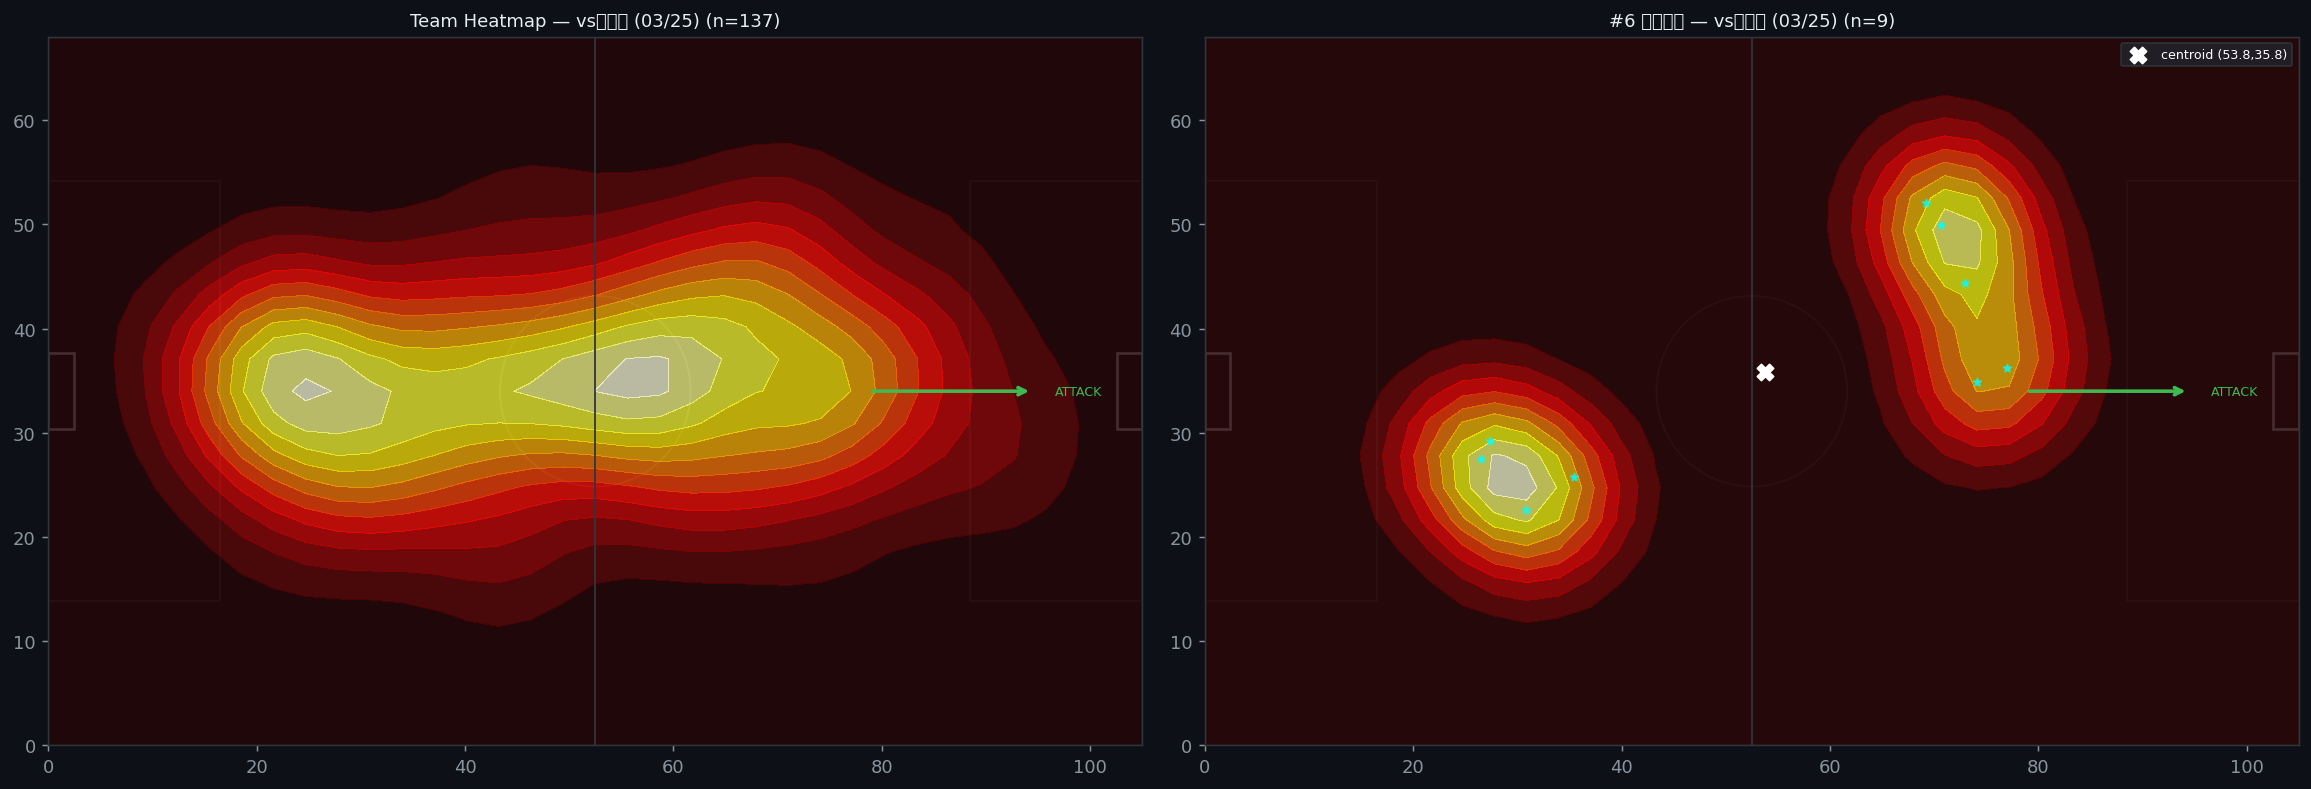
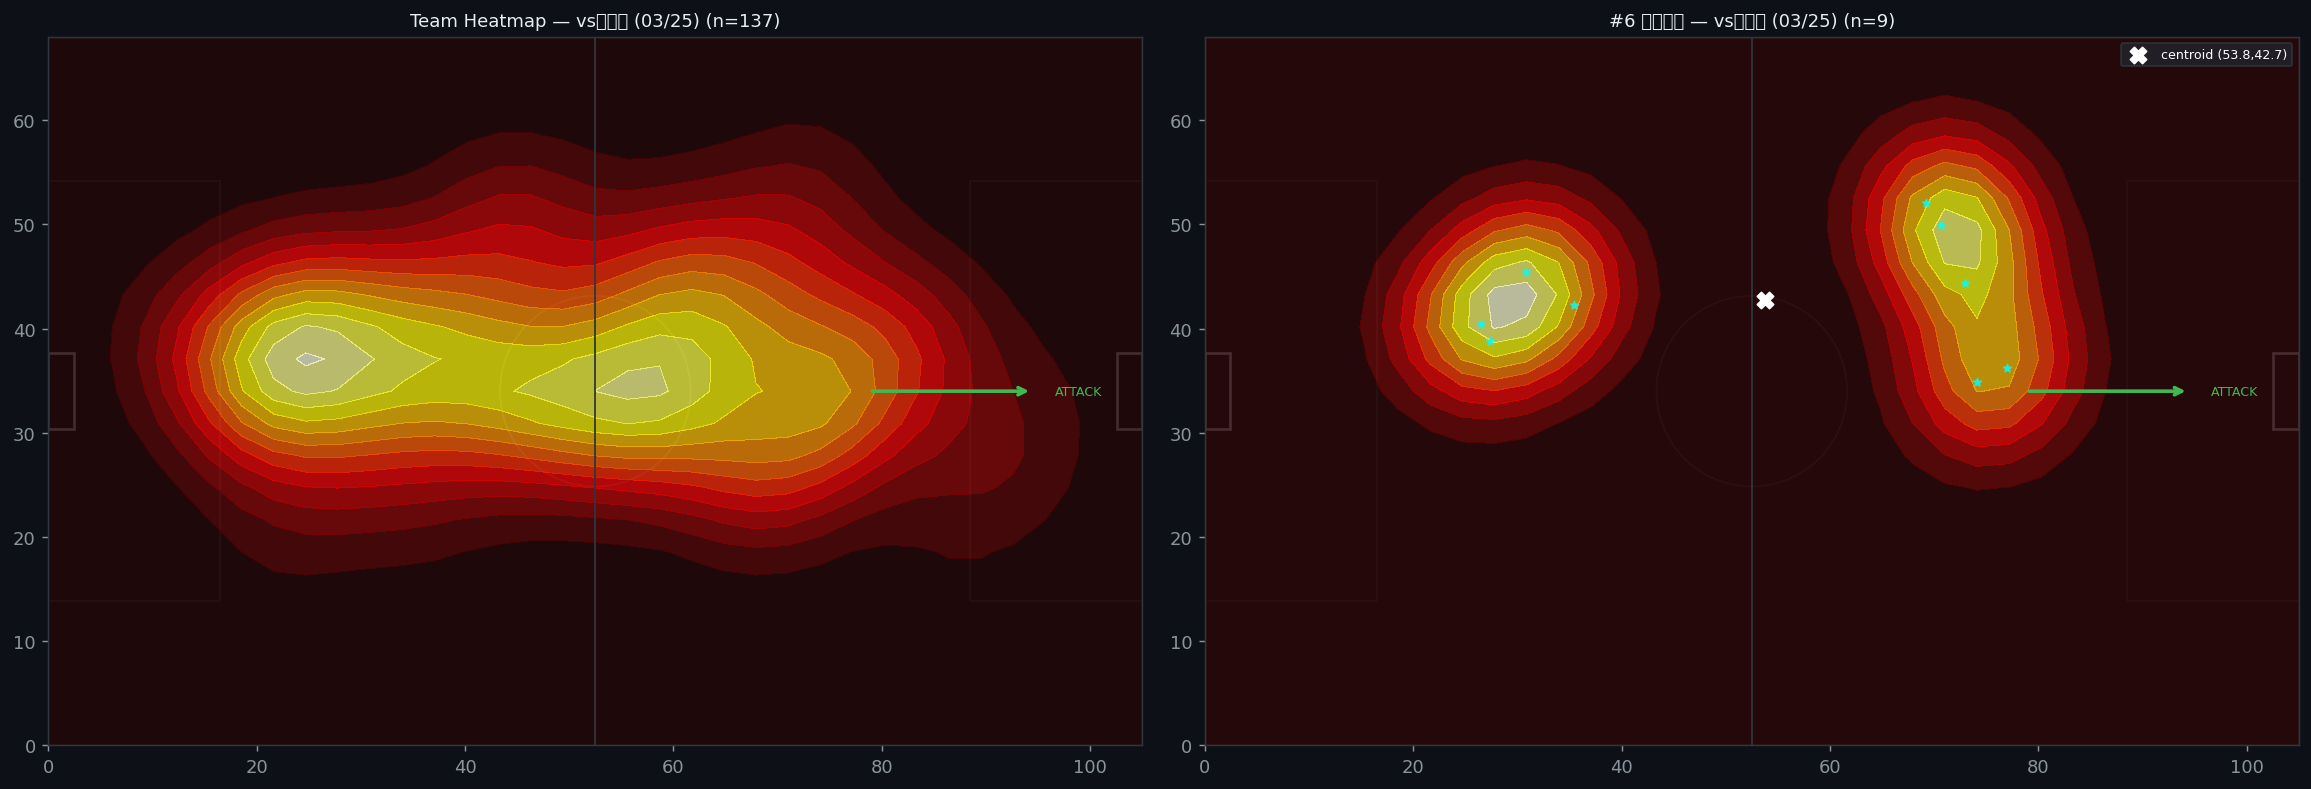
Fix Y-axis flip bug: teams swap ends (X), not touchline assignment (Y)
When normalizing half-time direction, only flip X (x'=105-x).
Y stays the same — right touchline remains the same physical line
regardless of which end the team attacks.

Result for #6 right-back (立教大 match):
- 1H: X=69-77m (overlapping forward in attack), Y=35-52m (right flank) ✓
- 2H normalized: X=26-36m (defensive zone), Y=38-45m (right flank) ✓
- Y now consistent across both halves (was flipped to left side before)

https://claude.ai/code/session_011qB73Nb2dJtgrmi4mqsruU

diff --git a/data/tzi/match_20260325/tracking_report_v3.html b/data/tzi/match_20260325/tracking_report_v3.html
@@ -36,7 +36,7 @@ tr:hover td {background:#161b22}
 <div class="content">
   <h2>Opponent Color Detection</h2>
   <p style="font-size:12px;color:#8b949e;margin-bottom:8px">Auto-detected opponent jersey HSV clusters used as spatial augmentation:</p>
-  <div style="margin-bottom:16px"><span style='background:hsl(50deg,60%,40%);color:white;padding:2px 8px;border-radius:4px;font-size:11px;margin:2px'>H:10-40 S:0-76</span> <span style='background:hsl(192deg,60%,40%);color:white;padding:2px 8px;border-radius:4px;font-size:11px;margin:2px'>H:81-111 S:0-75</span> </div>
+  <div style="margin-bottom:16px"><span style='background:hsl(192deg,60%,40%);color:white;padding:2px 8px;border-radius:4px;font-size:11px;margin:2px'>H:81-111 S:0-76</span> <span style='background:hsl(52deg,60%,40%);color:white;padding:2px 8px;border-radius:4px;font-size:11px;margin:2px'>H:11-41 S:0-76</span> </div>
 
   <h2>Player List (18名 · Normalized Coordinates)</h2>
   <table><thead><tr><th>Track ID</th><th>Jersey #</th><th>Sightings</th><th>Active Period</th><th>Primary Zone</th></tr></thead>

diff --git a/scripts/tzi/track_players_v3.py b/scripts/tzi/track_players_v3.py
@@ -116,9 +116,12 @@ def fx_to_zone(fx):
 
 
 def normalize_pos(fx, fy, flip):
-    """Normalize field coordinates so Waseda always attacks right (x→105)."""
+    """Normalize field coordinates so Waseda always attacks right (x→105).
+    Only X is flipped — 'right touchline' stays the same side all game.
+    Teams swap ENDS (goals) at HT, not their wing assignments.
+    """
     if flip:
-        return round(FW - fx, 2), round(FH - fy, 2)
+        return round(FW - fx, 2), round(fy, 2)
     return round(fx, 2), round(fy, 2)
 
 